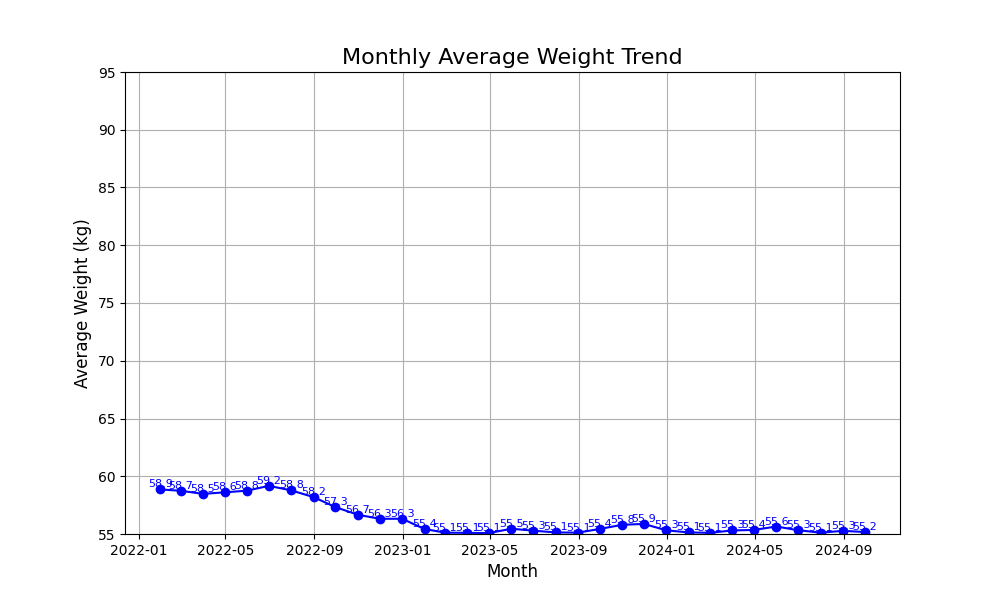
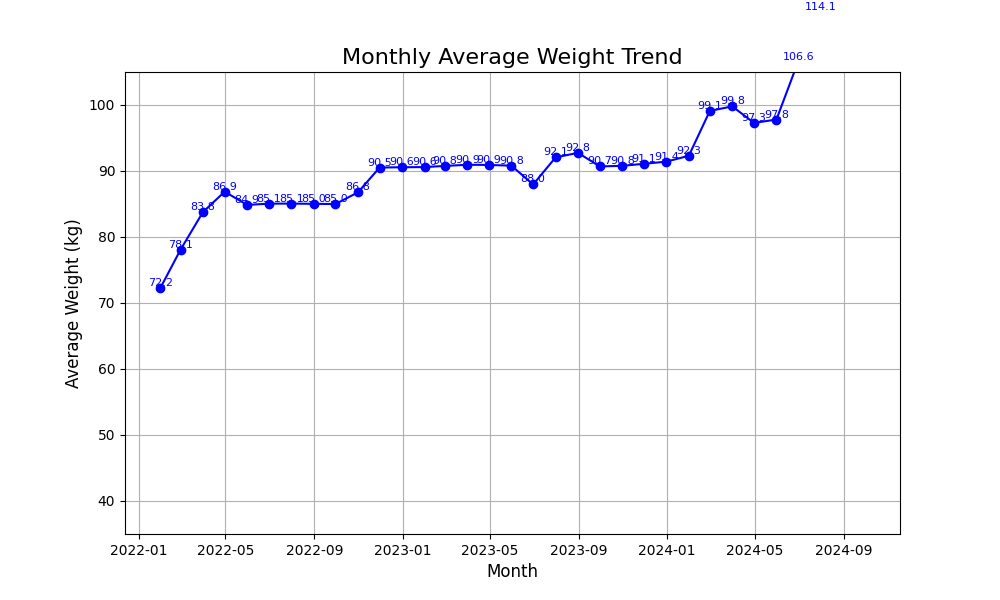
fix: 랜덤 패턴 생성 코드 중간 저장..

diff --git a/project/analysis/prediction/dummy/dummy_maker.py b/project/analysis/prediction/dummy/dummy_maker.py
@@ -9,8 +9,8 @@ import os
 people_data = pd.read_csv('../statistics/updated_output.csv')
 
 # 테스트 코드
-for sample_id in range(10):
-# for sample_id in range(len(people_data)):
+# for sample_id in range(10):
+for sample_id in range(len(people_data)):
     person_data = people_data.iloc[sample_id]
 
     ### DF 사용할 data 만들기
@@ -27,7 +27,7 @@ for sample_id in range(10):
         'consumed_cal' : person_data['consumed_cal'],
         'intake_cal' : 0,
         'BMR': person_data['BMR'],
-        'day_variable' : 0,
+        'day_variable' : 0.0,
         'est_weight': np.zeros(980)
     }
     df = pd.DataFrame(data)
@@ -77,9 +77,6 @@ for sample_id in range(10):
         # 길이가 980짜리 하나의 활동 칼로리 리스트로 펼치기
         flattened_patterns = [cal for weekly_pattern in all_patterns for cal in weekly_pattern]
         
-        # 리스트의 길이가 정확히 980인지 확인
-        assert len(flattened_patterns) == 980, f"Flattened pattern length is {len(flattened_patterns)}, expected 980."
-
         return flattened_patterns
 
     # 4. df에 반영하기
@@ -108,22 +105,22 @@ for sample_id in range(10):
     def generate_weight_patterns():
         days = 0
         if exercise_habit:
-            user_type = np.random.choice(['increase', 'decrease', 'maintain'], p=[0.1, 0.3, 0.6])
+            user_type = np.random.choice(['increase', 'decrease', 'maintain'], p=[0.2, 0.2, 0.6])
         else:
             user_type = np.random.choice(['increase', 'decrease', 'maintain'], p=[0.25, 0.25, 0.5])
             
         patterns = []
         while days < 980:
-            # 최소 7일 ~ 최대 60일까지의 수 중 하나 골라서 패턴 적용할 것 정하기
-            pattern_length = np.random.randint(7, 61)
+            # 최소 14일 ~ 최대 30일까지의 수 중 하나 골라서 패턴 적용할 것 정하기
+            pattern_length = np.random.randint(14, 31)
             
             # 유저 타입에 따라 패턴 확률을 다르게 가져간다.
             if user_type == 'increase': # 증가형, 증가를 많이 가져가게
-                pattern_type = np.random.choice(['increase', 'decrease', 'maintain'], p=[0.5, 0.2, 0.3])
+                pattern_type = np.random.choice(['increase', 'decrease', 'maintain'], p=[0.2, 0.1, 0.7])
             elif user_type == 'decrease': # 감소형, 감소를 많이 가져가게
-                pattern_type = np.random.choice(['increase', 'decrease', 'maintain'], p=[0.2, 0.5, 0.3])
+                pattern_type = np.random.choice(['increase', 'decrease', 'maintain'], p=[0.1, 0.2, 0.7])
             elif user_type == 'maintain': # 유지형, 증가-감소를 가져가고, 유지가 더 많이
-                pattern_type = np.random.choice(['increase', 'decrease', 'maintain'], p=[0.3, 0.3, 0.4])
+                pattern_type = np.random.choice(['increase', 'decrease', 'maintain'], p=[0.15, 0.15, 0.7])
 
             # 980일 이상으로 안만들기 위해 min 적용, 패턴 저장
             end = min(days + pattern_length, 980)
@@ -136,48 +133,69 @@ for sample_id in range(10):
 
     # 2. 패턴 적용 함수
     def apply_patterns(df, user_type, patterns):
-        
+        # 'weight_change_effect' 컬럼을 0으로 초기화
+        df['weight_change_effect'] = 0.0
+
         # 최소, 최대 몸무게 변화를 지정해 전체 기간 중 결과적으로 얼마나 변화를 줄지
         if user_type == 'increase': # 전체 기간 동안 3키로 증가 ~ 10키로 증가
-            min_variable = 3
+            min_variable = 4
             max_variable = 11
         elif user_type == 'decrease': # 전체 기간 동안 2키로 감소 ~ 5키로 감소
-            min_variable = -5
-            max_variable = -2
+            min_variable = 1
+            max_variable = 4
         else: # 거의 유지되는 정도 전체 기간동안 2키로 감소 ~ 2키로 증가
-            min_variable = -2
-            max_variable = 2
+            min_variable = 0
+            max_variable = 3
 
         # 전체 기간 동안의 목표를 설정
         aim = np.random.randint(min_variable, max_variable)
+        # 한번 변화할 때, 변화량 추적
+        increase_count_patterns = 0
+        decrease_count_patterns = 0
+        for p in patterns:
+            if 'increase' in p:
+                increase_count_patterns += 1
+            elif 'decrease' in p:
+                decrease_count_patterns += 1
 
-        # 제일 처음과 제일 끝의 차이는 결국 aim값에 맞춰져야한다.
+        # 변화 추적 변수
+        current_change = 0.0
 
-        # 아래 패턴을 이용해서 aim으로 잘 가게금 유도하기 (근데 급하게 틀면 안됨)
-
+        # 패턴 리스트 읽어서 패턴 적용
         for start, end, pattern_type in patterns:
-            days_in_pattern = end - start + 1
+            days_in_pattern = end - start
 
             # 길이가 길면, 몸무게 증가하는 양도 늘고, 길이가 줄면, 몸무게 감소 + 유지하는 양도 높아진다.
-            if pattern_type == 'increase':
-                # 증가 패턴: 하루에 0.1~0.5kg 증가
-                df.loc[start:end, 'weight_change_effect'] += np.linspace(0, 0.5, end-start+1)
-            elif pattern_type == 'decrease':
-                # 감소 패턴: 하루에 0.1~0.5kg 감소
-                df.loc[start:end, 'weight_change_effect'] -= np.linspace(0, 0.5, end-start+1)
+            if pattern_type == 'increase': # 증가
+                increase_change = aim / increase_count_patterns
+                daily_change = increase_change / days_in_pattern
+                df.loc[start:end-1, 'weight_change_effect'] += np.linspace(0.01, daily_change * days_in_pattern, days_in_pattern) + np.random.uniform(-0.1, 0.1, days_in_pattern)
+                current_change += increase_change
+            elif pattern_type == 'decrease': # 감소
+                decrease_change = aim / decrease_count_patterns
+                daily_change = decrease_change / days_in_pattern
+                df.loc[start:end-1, 'weight_change_effect'] -= np.linspace(0.01, daily_change * days_in_pattern, days_in_pattern) + np.random.uniform(-0.1, 0.1, days_in_pattern)
+                current_change -= decrease_change
             elif pattern_type == 'maintain':
                 # 유지 패턴: weight_change_effect 추가 없음
-                df.loc[start:end, 'weight_change_effect'] = 0  # 유지 패턴은 기본적인 fluctuation만 반영
+                maintain_change = np.random.uniform(-0.05, 0.05, days_in_pattern)
+                df.loc[start:end-1, 'weight_change_effect'] += maintain_change  # 유지 패턴은 기본적인 fluctuation만 반영
+                current_change += maintain_change.sum()
 
+            # print(f"Start: {start}, End: {end}, Pattern Type: {pattern_type}, Days: {days_in_pattern}")
+            # print(f"Current Change: {current_change}\n")
         return df
+
     user_type, patterns = generate_weight_patterns()
     # print(patterns)
     df = apply_patterns(df, user_type, patterns)
 
     # 3. 몸무게 패턴 생성 함수
     def generate_weight_patterns():
+        df['day_variable'] = df['day_variable'].astype(float)
+        df['est_weight'] = df['est_weight'].astype(float)
         # 첫째날 하루의 몸무게 변화 = (먹었던 것 - (기초 대사 + 활동 대사)) / 7700
-        df.loc[0, 'day_variable'] = round((df.loc[0, 'intake_cal'] - (df.loc[0, 'BMR'] + df.loc[0, 'consumed_cal'])) / 7700, 2)
+        df.loc[0, 'day_variable'] = float(round((df.loc[0, 'intake_cal'] - (df.loc[0, 'BMR'] + df.loc[0, 'consumed_cal'])) / 7700, 2))
 
         # 연산으로 얻어낸 몸무게 변화라고 가정
         df.loc[0, 'est_weight'] = df.loc[0, 'weight'] + df.loc[0, 'day_variable']
@@ -186,7 +204,7 @@ for sample_id in range(10):
         for i in range(1, len(df)):
 
             # 1. 기존 체중(weight)을 예상 체중으로 덮어 씌우기
-            fluctuation = np.random.uniform(-0.2, 0.2)
+            fluctuation = np.random.uniform(-0.1, 0.1)
             df.loc[i, 'weight'] = df.loc[i-1, 'est_weight'] + fluctuation
 
             # 2. 오늘 하루 BMR 반영
@@ -203,10 +221,13 @@ for sample_id in range(10):
             # 하루 체중 변화량 (연산) vs 하루 패턴 변화량 (패턴화) => 둘 중 하나만 가져가야하나?
 
             # 4. 오늘의 est_weight 계산 (어제의 몸무게, 오늘의 몸무게의 평균 + 체중 변화량 + 패턴 변화량)
-            df.loc[i, 'est_weight'] = (df.loc[i-1, 'weight'] + df.loc[i, 'weight']) / 2 + df.loc[i, 'day_variable'] + df.loc[i, 'weight_change_effect']
+            # df.loc[i, 'est_weight'] = (df.loc[i-1, 'weight'] + df.loc[i, 'weight']) / 2 + df.loc[i, 'day_variable'] + df.loc[i, 'weight_change_effect']
+            df.loc[i, 'est_weight'] = (df.loc[i-1, 'weight'] + df.loc[i, 'weight']) / 2 + (df.loc[i, 'weight_change_effect'] if abs(df.loc[i, 'weight_change_effect']) < 1 else df.loc[i, 'day_variable'])
 
             # 5. 변화하는 BMI 계산해서 df에 넣기
             df['BMI'] = round(df['weight'] / ((df['height']/100) ** 2), 2)
+
+
     generate_weight_patterns()
 
     # 결과 확인
@@ -217,8 +238,6 @@ for sample_id in range(10):
         csv_file = os.path.join('./outputs/test/csv', f'sample_{sample_id}.csv')
         # csv로 저장하기
         df.to_csv(csv_file, index=False)
-        print(f'{csv_file} Saved!')
-    make_time_series_data()
 
     ### matplotlib, graph save
     def make_graph():
@@ -234,8 +253,10 @@ for sample_id in range(10):
         # 남성일 경우 파란색, 여성일 경우 빨간색
         color = 'b' if df['sex'][0] == 1 else 'r'  # 성별에 따른 색상 선택
         marker = 'o' if df['sex'][0] == 1 else 'x'  # 성별에 따른 마커 선택
-        min_weight = min(df['weight'])
-        max_weight = max(df['weight'])
+        # min_weight = min(df['weight'])
+        # max_weight = max(df['weight'])
+        min_weight = 35
+        max_weight = 105
 
         plt.plot(df_monthly_weight.index, df_monthly_weight['est_weight'], marker=marker, linestyle='-', color=color)
         
@@ -257,8 +278,11 @@ for sample_id in range(10):
         # plt, png 저장
         png_file = os.path.join('./outputs/chart', f'sample_{sample_id}.png')
         plt.savefig(png_file)
-        print(f'{png_file} Saved!')
         
         # plt.show()
         plt.close()
+    
+    # 결과 생성
+    make_time_series_data()
     make_graph()
+    print(f'{sample_id}.data saved!')
